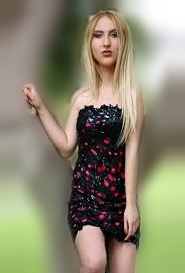
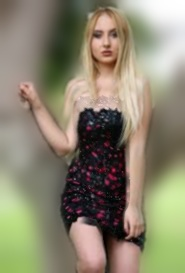
segmentasyon v5

diff --git a/deform_body.py b/deform_body.py
@@ -4,8 +4,8 @@ from scipy.interpolate import Rbf
 import mediapipe as mp
 
 mp_pose = mp.solutions.pose
+mp_face_mesh = mp.solutions.face_mesh
 
-# Bölge indeksleri (MediaPipe 33 noktası)
 REGIONS = {
     "head": [0, 1, 2, 3, 4, 5, 6],
     "neck": [11, 12],
@@ -22,22 +22,31 @@ REGIONS = {
 }
 
 def get_pose_landmarks(image):
-    """MediaPipe Pose ile 33 vücut noktası al"""
     image_rgb = cv2.cvtColor(image, cv2.COLOR_BGR2RGB)
     with mp_pose.Pose(static_image_mode=True, min_detection_confidence=0.5) as pose:
         results = pose.process(image_rgb)
         if not results.pose_landmarks:
             return None
-        landmarks = results.pose_landmarks.landmark
         h, w, _ = image.shape
-        points = [(int(lm.x * w), int(lm.y * h)) for lm in landmarks]
+        points = [(int(lm.x * w), int(lm.y * h)) for lm in results.pose_landmarks.landmark]
+        return points
+
+def get_face_landmarks(image):
+    image_rgb = cv2.cvtColor(image, cv2.COLOR_BGR2RGB)
+    with mp_face_mesh.FaceMesh(
+        static_image_mode=True,
+        max_num_faces=1,
+        refine_landmarks=True,
+        min_detection_confidence=0.5
+    ) as face_mesh:
+        results = face_mesh.process(image_rgb)
+        if not results.multi_face_landmarks:
+            return []
+        h, w, _ = image.shape
+        points = [(int(lm.x * w), int(lm.y * h)) for lm in results.multi_face_landmarks[0].landmark]
         return points
 
 def deform_region(image, points, scale_dict):
-    """
-    Her hassas bölge için scale uygular.
-    scale_dict örn: {"chest":0.8, "waist":0.75, "thighs":0.85}
-    """
     if points is None:
         print("Vücut noktaları bulunamadı!")
         return image
@@ -46,25 +55,42 @@ def deform_region(image, points, scale_dict):
     src = np.array(points, dtype=np.float32)
     dst = src.copy()
 
-    # Her bölge için scale uygula
+    mask = np.zeros((h, w), dtype=np.uint8)
+
     for region, indices in REGIONS.items():
         if region in scale_dict:
             region_points = src[indices]
-            center_x = np.mean(region_points[:,0])
-            center_y = np.mean(region_points[:,1])
-            dst[indices] = (region_points - [center_x, center_y]) * scale_dict[region] + [center_x, center_y]
+            center = np.mean(region_points, axis=0)
+            dst[indices] = (region_points - center) * scale_dict[region] + center
 
-    # Grid oluştur
+            # Bölge maskesi oluştur (konveks hull ile)
+            hull = cv2.convexHull(region_points.astype(np.int32))
+            cv2.drawContours(mask, [hull], -1, 255, -1)
+
+    # Tüm vücut noktalarını ve maskeyi kullanarak deformasyon uygula
+    src_unique, indices = np.unique(src, axis=0, return_index=True)
+    dst_unique = dst[indices]
+
     grid_x, grid_y = np.meshgrid(np.arange(w), np.arange(h))
     grid_x_flat = grid_x.flatten()
     grid_y_flat = grid_y.flatten()
 
-    # TPS benzeri RBF
-    rbf_x = Rbf(src[:,0], src[:,1], dst[:,0], function='thin_plate')
-    rbf_y = Rbf(src[:,0], src[:,1], dst[:,1], function='thin_plate')
+    rbf_x = Rbf(src_unique[:, 0], src_unique[:, 1], dst_unique[:, 0], function='multiquadric', epsilon=2)
+    rbf_y = Rbf(src_unique[:, 0], src_unique[:, 1], dst_unique[:, 1], function='multiquadric', epsilon=2)
 
-    map_x = np.clip(rbf_x(grid_x_flat, grid_y_flat).reshape((h,w)), 0, w-1).astype(np.float32)
-    map_y = np.clip(rbf_y(grid_x_flat, grid_y_flat).reshape((h,w)), 0, h-1).astype(np.float32)
+    map_x = rbf_x(grid_x_flat, grid_y_flat).reshape((h, w))
+    map_y = rbf_y(grid_x_flat, grid_y_flat).reshape((h, w))
 
-    output = cv2.remap(image, map_x, map_y, interpolation=cv2.INTER_CUBIC, borderMode=cv2.BORDER_REPLICATE)
-    return output
+    map_x = np.clip(map_x, 0, w-1).astype(np.float32)
+    map_y = np.clip(map_y, 0, h-1).astype(np.float32)
+
+    # Sadece maske içini deforme et, dışı orijinal kalsın
+    mask_blur = cv2.GaussianBlur(mask, (21, 21), 0)
+    mask_norm = mask_blur.astype(np.float32) / 255.0
+    output = cv2.remap(image, map_x, map_y, interpolation=cv2.INTER_CUBIC, borderMode=cv2.BORDER_REFLECT_101)
+    blended = (output * mask_norm[..., None] + image * (1 - mask_norm[..., None])).astype(np.uint8)
+
+    # Geçişleri yumuşat
+    blended = cv2.GaussianBlur(blended, (3, 3), 0)
+
+    return blended
